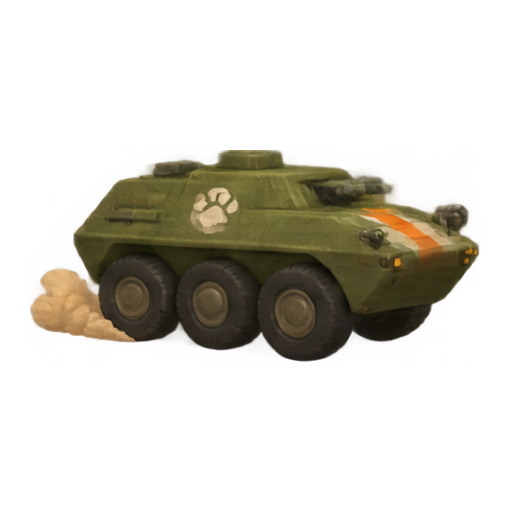
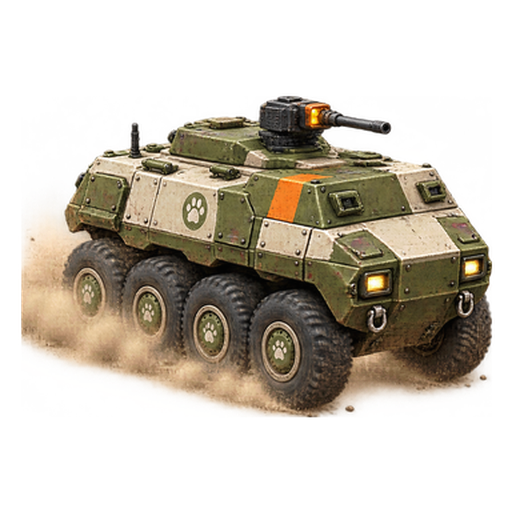
0.7.2: багги, БТР и танк перерисованы детальнее с блестящим металлом — Стоянка, чертежи, энциклопедия, доска развития

diff --git a/tools/art/build_icon_catalog.py b/tools/art/build_icon_catalog.py
@@ -56,6 +56,7 @@ GROUPS = {
 	"category": ("Категории наград", "Значок категории в углу карточки награды (сундуки, чертежи, торговец)"),
 	"ammo": ("Патроны", "Рюкзак и слоты патронов в планшете → Снаряжение; карточки патронов между волнами"),
 	"blueprint": ("Чертежи", "Чертежи в рюкзаке (планшет → Снаряжение): один планшет, силуэт — категория"),
+	"vehicle": ("Техника игрока", "Стоянка в хабе (машины), чертежи техники, энциклопедия, HUD при езде"),
 	"sender": ("Отправители сообщений", "Аватар в ленте заданий планшета: Штаб усов, Институт, Оперштаб"),
 }
 
@@ -82,6 +83,8 @@ def name_for(group, key):
 		return {"standard": "Обычные", "burn": "Зажигательные", "stun": "Контузящие", "shock": "ЭМИ", "explosive": "Разрывные", "ap": "Бронебойные", "ricochet": "Рикошет", "cryo": "Криогенные", "cluster": "Кассетные", "napalm": "Напалм"}.get(key, key)
 	if group == "blueprint":
 		return {"weapon": "Чертёж оружия", "garage": "Чертёж техники", "hq": "Чертёж штаба", "ability": "Чертёж способности", "bonus": "Чертёж бонуса", "research": "Чертёж постройки"}.get(key, key)
+	if group == "vehicle":
+		return VEHICLES.get(key, key)
 	if group == "sender":
 		return {"quests": "Штаб усов", "guide": "Институт", "notifications": "Оперштаб"}.get(key, key)
 	return RESOURCES.get(key, key)

diff --git a/tools/art/build_icon_kit.py b/tools/art/build_icon_kit.py
@@ -108,6 +108,7 @@ def main():
 		# HQ is the mobile command truck (author, 2 Oct): these replace the tent and bunker pictures.
 		("hq_vehicle_v3.png", 3, 2): "cat_hq st_headquarters hq_repair medbay - -",
 		("bp_hq_v2.png", 1, 1): "bp_hq",
+		("vehicles_v2.png", 3, 2): "veh_buggy veh_apc veh_tank - - -",
 	}
 	for (sheet, cols, rows), names in symbols.items():
 		grid = cells(sheet, cols, rows)

diff --git a/guides/02_development/09_icon_catalog.md b/guides/02_development/09_icon_catalog.md
@@ -110,7 +110,7 @@
 | boot_wind.png | upgrades/speed | Передвижение |
 | bullet_burst.png | upgrades/weapon_damage | Урон оружия |
 | bullet_shatter.png | upgrades/crit_damage, stats/crit_damage | Разрывные, Крит-урон |
-| bullet_vs_rocket.png | upgrades/intercept, pickups/pressure | Напор |
+| bullet_vs_rocket.png | upgrades/intercept, pickups/pressure | Стабилизатор, Ярость |
 | bullets_fast.png | upgrades/fire | Темп огня |
 | burst.png | upgrades/damage | Сила атаки |
 | clover_casing.png | upgrades/luck, stats/luck | Счастливая гильза, Удача |
@@ -128,7 +128,7 @@
 | gyro.png | upgrades/weapon_intercept | Стабилизатор |
 | heart_cage.png | upgrades/health, pickups/heart | Здоровье, Аптечка |
 | helmet_stars.png | upgrades/stun_long | Глубокая контузия |
-| hood.png | upgrades/stealth, stats/stealth | Маскхалат, Маскировка |
+| hood.png | upgrades/stealth, stats/stealth | Маскхалат, Скрытность |
 | hourglass_bullet.png | upgrades/opening_shot | Выдержка |
 | loot_sack.png | upgrades/marauder, stats/marauder | Запасливый |
 | magazine_fast.png | upgrades/weapon_fire | Скорострельность |
@@ -145,7 +145,7 @@
 | torn_flag.png | upgrades/last_stand | Последний рубеж |
 | trajectory.png | upgrades/range | Дальность |
 | vest.png | upgrades/guard_bullet, stats/guard_bullet | Бронежилет, Защита от пуль |
-| wrench_spark.png | upgrades/field_repair, stats/field_repair, abilities/field_repair | Полевой ремонт |
+| wrench_spark.png | upgrades/field_repair, stats/field_repair, abilities/field_repair | Ремонт на ходу, Полевой ремонт |
 
 ## Категории наград (6)
 
@@ -309,12 +309,13 @@
 |---|---|---|
 | mallet_stars.png | stats/stun_power | Оглушение |
 
-## Развитие заставы (24)
+## Развитие заставы (25)
 
 Где: Доска «Развитие заставы» в хабе: шаги целей
 
 | Файл | id | Название |
 |---|---|---|
+| all_built.png | all_built | all_built |
 | apc.png | apc | apc |
 | buggy.png | buggy | buggy |
 | class2.png | class2 | class2 |
@@ -424,6 +425,16 @@
 | vehicle.png | vehicle | vehicle |
 | vehicle_repair.png | vehicle_repair | vehicle_repair |
 | wall.png | wall | wall |
+
+## Техника игрока (3)
+
+Где: Стоянка в хабе (машины), чертежи техники, энциклопедия, HUD при езде
+
+| Файл | id | Название |
+|---|---|---|
+| veh_apc.png | vehicle/apc | БТР |
+| veh_buggy.png | vehicle/buggy | Багги |
+| veh_tank.png | vehicle/tank | Танк |
 
 ## Технологии штаба (9)
 
